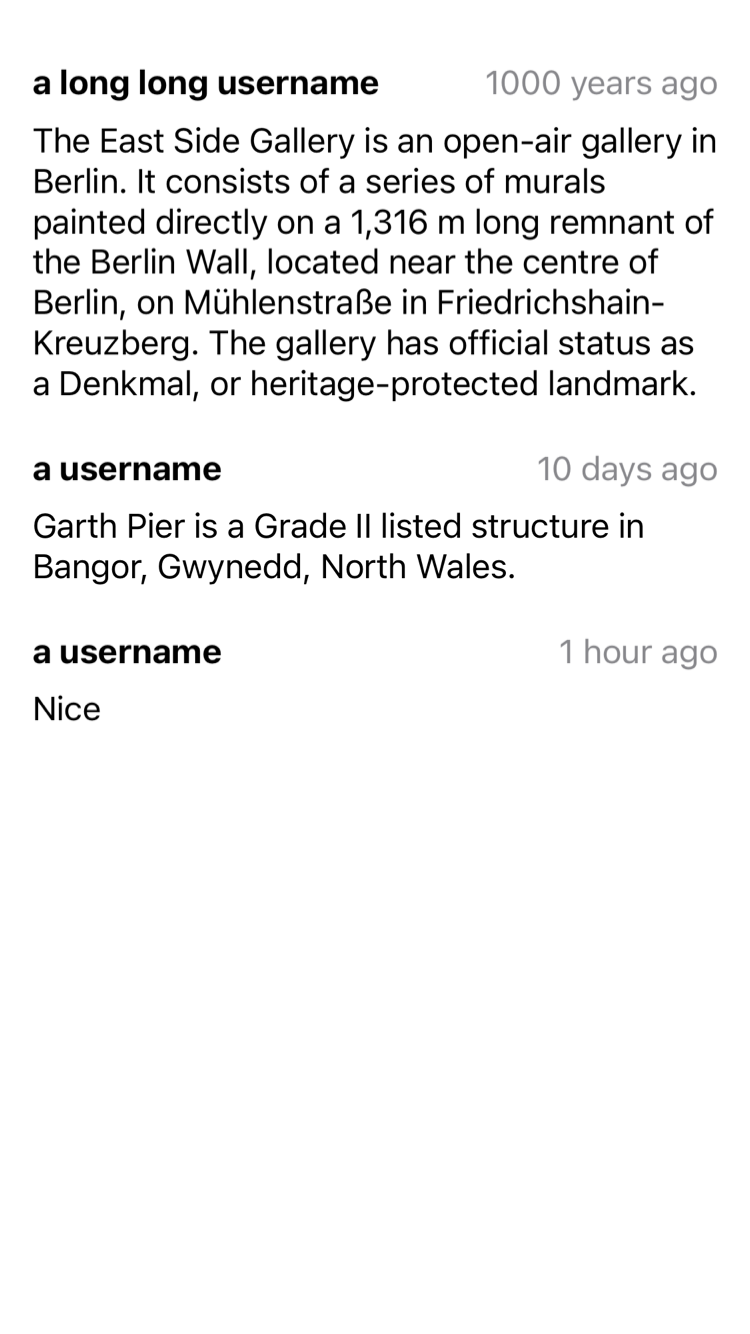
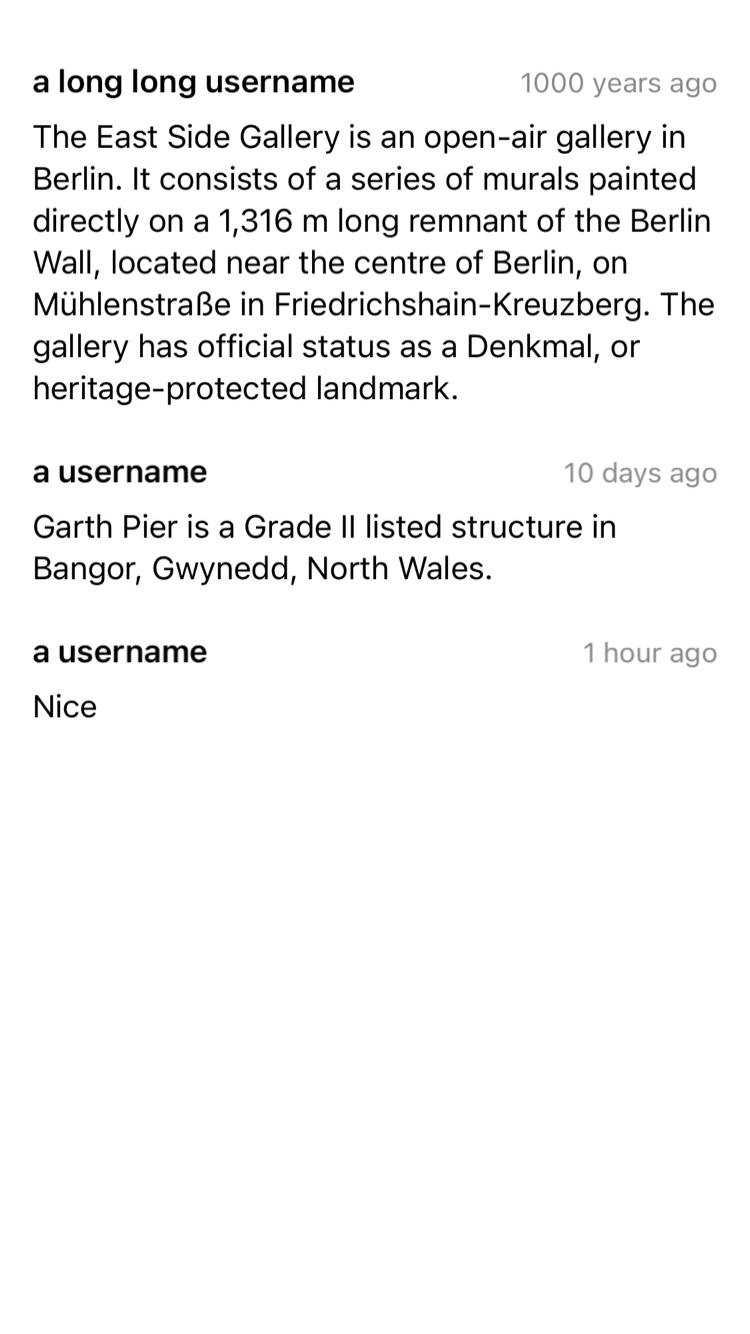
Replace hardcoded fonts with dynamic fonts

Changed region(s): [[0.0307, 0.0307, 0.9507, 0.3073], [0.0307, 0.3381, 0.9507, 0.5532], [0.7667, 0.461, 0.9507, 0.5225]]

diff --git a/EssentialFeediOSTests/FeedSnapshotTests.swift b/EssentialFeediOSTests/FeedSnapshotTests.swift
@@ -19,6 +19,7 @@ final class FeedSnapshotTests: XCTestCase {
         sut.display(feedWithContent())
         assert(snapshot: sut.snapshot(for: .iPhone8(style: .dark)), named: "FEED_WITH_CONTENT_DARK")
         assert(snapshot: sut.snapshot(for: .iPhone8(style: .light)), named: "FEED_WITH_CONTENT_LIGHT")
+        assert(snapshot: sut.snapshot(for: .iPhone8(style: .light, contentSize: .extraExtraExtraLarge)), named: "FEED_WITH_CONTENT_LIGHT_extraExtraExtraLarge")
        
     }
     
@@ -99,7 +100,7 @@ struct SnapshotConfiguration {
     let layoutMargins: UIEdgeInsets
     let traitCollection: UITraitCollection
     
-    static func iPhone8(style: UIUserInterfaceStyle) -> SnapshotConfiguration {
+    static func iPhone8(style: UIUserInterfaceStyle, contentSize: UIContentSizeCategory = .medium) -> SnapshotConfiguration {
         return SnapshotConfiguration(
             size: CGSize(width: 375, height: 667),
             safeAreaInsets: UIEdgeInsets(top: 20, left: 0, bottom: 0, right: 0),
@@ -107,7 +108,7 @@ struct SnapshotConfiguration {
             traitCollection: UITraitCollection(traitsFrom: [
                 .init(forceTouchCapability: .available),
                 .init(layoutDirection: .leftToRight),
-                .init(preferredContentSizeCategory: .medium),
+                .init(preferredContentSizeCategory: contentSize),
                 .init(userInterfaceIdiom: .phone),
                 .init(horizontalSizeClass: .compact),
                 .init(verticalSizeClass: .regular),
@@ -172,7 +173,7 @@ private class ImageStub: FeedImageCellControllerDelegate {
     
     func didRequestImage() {
         controller?.display(ResourceLoadingViewModel(isLoading: false))
-        if let image = image {
+        if let _ = image {
             controller?.display(ResourceErrorViewModel(message: .none))
         } else {
             controller?.display(ResourceErrorViewModel(message: "any"))

diff --git a/EssentialFeediOSTests/Shared UI/ListSnapshotTests.swift b/EssentialFeediOSTests/Shared UI/ListSnapshotTests.swift
@@ -26,15 +26,14 @@ final class ListSnapshotTests: XCTestCase {
         sut.display(.error(message: "This is a\nmultiline\nerror message"))
         assert(snapshot: sut.snapshot(for: .iPhone8(style: .dark)), named: "LIST_WITH_ERROR_MESSAGE_dark")
         assert(snapshot: sut.snapshot(for: .iPhone8(style: .light)), named: "LIST_WITH_ERROR_MESSAGE_light")
+        assert(snapshot: sut.snapshot(for: .iPhone8(style: .light, contentSize: .extraExtraExtraLarge)), named: "LIST_WITH_ERROR_MESSAGE_light_extraExtraExtraLarge")
     }
     
     
     //MARK: - Helpers
     
     private func makeSUT() -> ListViewController {
-        let bundle = Bundle(for: ListViewController.self)
-        let storyBoard = UIStoryboard(name: "ImageComments", bundle: bundle)
-        let controller = storyBoard.instantiateInitialViewController() as! ListViewController
+        let controller = ListViewController()
         controller.loadViewIfNeeded()
         controller.tableView.showsVerticalScrollIndicator = false
         controller.tableView.showsHorizontalScrollIndicator = false

diff --git a/EssentialFeediOSTests/Image Comments UI/ImageCommentsSnapshotTests.swift b/EssentialFeediOSTests/Image Comments UI/ImageCommentsSnapshotTests.swift
@@ -17,6 +17,7 @@ final class ImageCommentsSnapshotTests: XCTestCase {
         sut.display(comments())
         assert(snapshot: sut.snapshot(for: .iPhone8(style: .dark)), named: "IMAGE_COMMENTS_dark")
         assert(snapshot: sut.snapshot(for: .iPhone8(style: .light)), named: "IMAGE_COMMENTS_light")
+        assert(snapshot: sut.snapshot(for: .iPhone8(style: .light, contentSize: .extraExtraExtraLarge)), named: "IMAGE_COMMENTS_light_extraExtraExtraLarge")
        
     }
     
